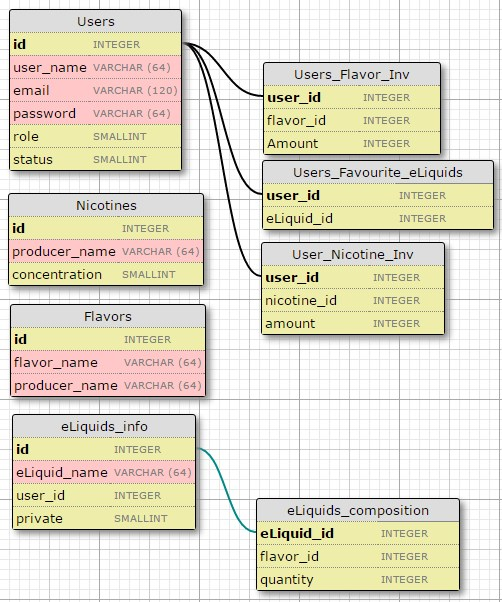
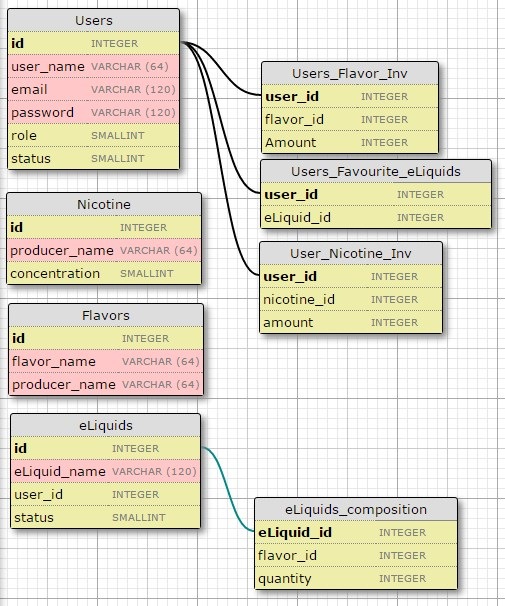
Добавил в модель базовые классы, необходимо добавить остальные, наследующие их. Небольшое косметическое изменение структуры бд

diff --git a/website/app/models.py b/website/app/models.py
@@ -1,19 +1,53 @@
 from website.app import db
 from website.app.users import constants as USER
-
-ROLE_USER = 0
-ROLE_ADMIN = 1
+from website.app.eliquids import constants as ELIQUID
 
 
 class User(db.Model):
 
-    __tablename__ = 'totally_not_users_db'
+    __tablename__ = 'Users'
     id = db.Column(db.Integer, primary_key=True)
-    username = db.Column(db.String(50), unique=True)
+    user_name = db.Column(db.String(64), unique=True)
     email = db.Column(db.String(120), unique=True)
     password = db.Column(db.String(120))
     role = db.Column(db.SmallInteger, default=USER.USER)
     status = db.Column(db.SmallInteger, default=USER.NEW)
+    # нужно ли это?
+    eLiquids = db.relationship('ELiquid', backref='author', lazy='dynamic')
 
     def __repr__(self):
         return '<User %r>' % (self.nickname)
+
+
+class Nicotine(db.Model):
+
+    __tablename__ = 'Nicotine'
+    id = db.Column(db.Integer, primary_key=True)
+    producer_name = db.Column(db.String(64))
+    concentration = db.Column(db.SmallInteger)
+
+    def __repr__(self):
+        return '<Nicotine %r>' % (self.producer_name)
+
+
+class Flavor(db.Model):
+
+    __tablename__ = 'Flavors'
+    id = db.Column(db.Integer, primary_key=True)
+    flavor_name = db.Column(db.String(64))
+    producer_name = db.Column(db.String(64))
+
+    def __repr__(self):
+        return '<Flavor %r>' % (self.flavor_name) % (self.producer_name)
+
+
+class ELiquid(db.Model):
+
+    __tablename__ = 'eLiquids'
+    id = db.Column(db.Integer, primary_key=True)
+    eliquid_name = db.Column(db.String(120), unique=True)
+    user_id = db.Column(db.Integer, db.ForeignKey('user.id'))
+    status = db.Column(db.SmallInteger, default=ELIQUID.PUBLIC)
+
+    def __repr__(self):
+        return '<Flavor %r>' % (self.eliquid_name)

diff --git a/website/app/eliquids/constants.py b/website/app/eliquids/constants.py
@@ -1,0 +1,8 @@
+# eLiquid status
+PUBLIC = 1
+PRIVATE = 0
+
+ROLE = {
+    PUBLIC: 'public',
+    PRIVATE: 'private',
+}
